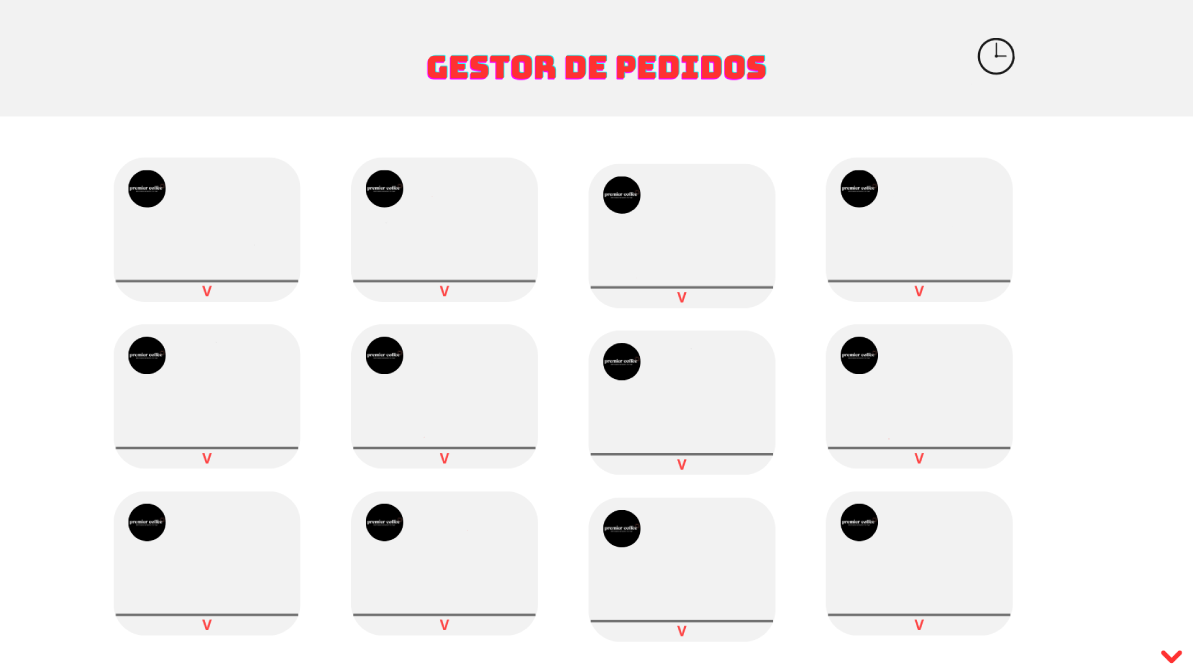
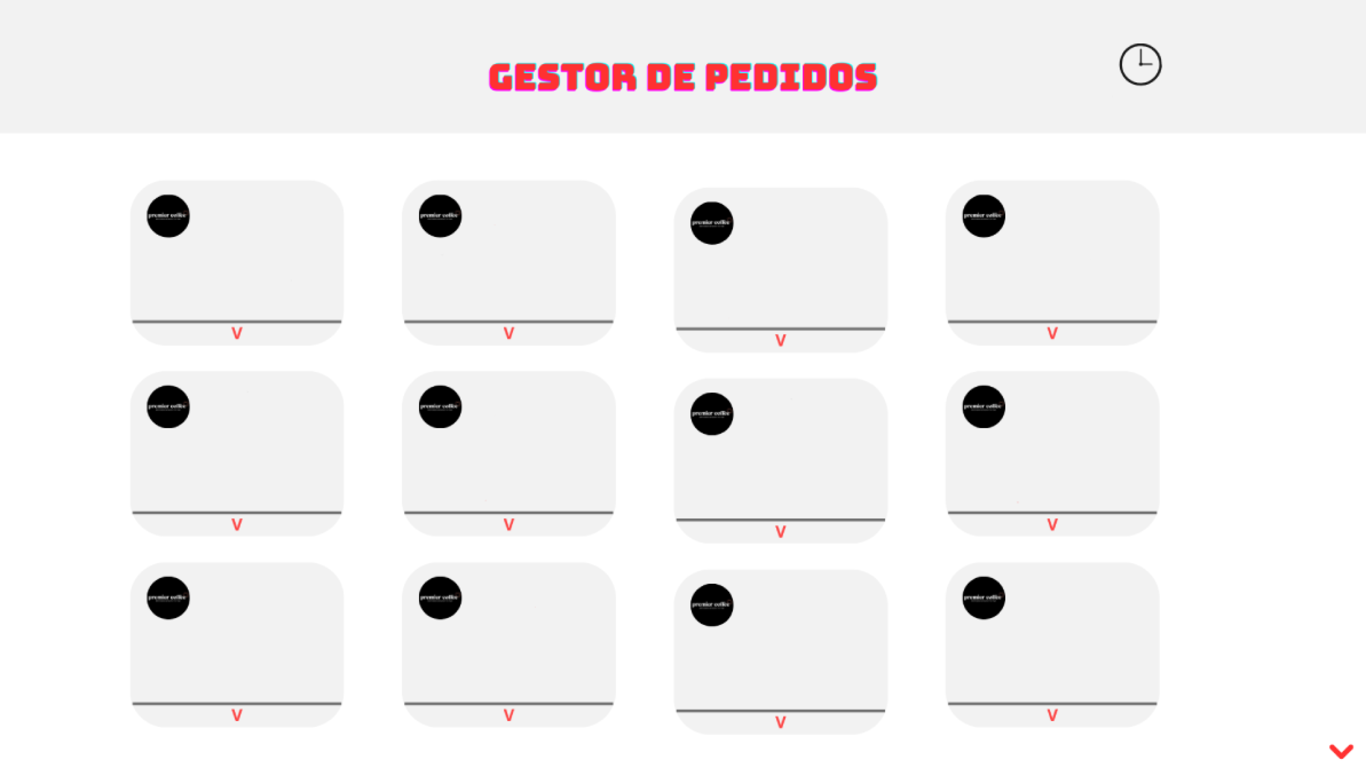
kfdçslkfçlsdkfslç

Changed region(s): [[0.3722, 0.0894, 0.6513, 0.1192]]

diff --git a/src/main/java/br/com/senai/gestaoDeCadastroFront/views/pedidos/ViewListagemDePedidos.java b/src/main/java/br/com/senai/gestaoDeCadastroFront/views/pedidos/ViewListagemDePedidos.java
@@ -4,19 +4,31 @@ import java.awt.Color;
 import java.awt.Font;
 
 import javax.swing.ImageIcon;
+import javax.swing.JButton;
 import javax.swing.JFrame;
 import javax.swing.JLabel;
 import javax.swing.JPanel;
 import javax.swing.SwingConstants;
 import javax.swing.border.EmptyBorder;
-import javax.swing.JButton;
 
+import org.springframework.stereotype.Component;
+
+import jakarta.annotation.PostConstruct;
+
+@Component
 public class ViewListagemDePedidos extends JFrame {
 
 	private static final long serialVersionUID = 1L;
 	private JPanel contentPane;
+	
+	
+	@PostConstruct
+	public void initialize() {
+		
+	}
 
 	public ViewListagemDePedidos() {
+		
 		setDefaultCloseOperation(JFrame.EXIT_ON_CLOSE);
 		setBounds(100, 100, 1172, 722);
 		contentPane = new JPanel();
@@ -870,11 +882,13 @@ public class ViewListagemDePedidos extends JFrame {
 		contentPane.add(btnNewButton_1_1_1_2);
 		
 		JLabel lblFundo = new JLabel("");
+		lblFundo.setIcon(new ImageIcon(ViewListagemDePedidos.class.getResource("/br/com/senai/gestaoDeCadastroFront/img/Tela de pedidos aceitos 1.png")));
 		lblFundo.setBorder(null);
 		lblFundo.setHorizontalAlignment(SwingConstants.LEFT);
 		lblFundo.setBounds(0, 0, 1156, 683);
 		lblFundo.setBackground(Color.WHITE);
-		lblFundo.setIcon(new ImageIcon(ViewPedidoAceito.class.getResource("/br/com/senai/gestaoDeCadastroFront/img/Tela de pedidos aceitos 1.png")));
 		contentPane.add(lblFundo);
+		
+		setLocationRelativeTo(null);
 	}
 }

diff --git a/src/main/java/br/com/senai/gestaoDeCadastroFront/views/pedidos/ViewGestorPedidos.java b/src/main/java/br/com/senai/gestaoDeCadastroFront/views/pedidos/ViewGestorPedidos.java
@@ -27,7 +27,7 @@ public class ViewGestorPedidos extends JFrame {
 	private JPanel contentPane;
 	
 	@PostConstruct
-	public void inicializar() {
+	public void initialize() {
 		
 	}
 	
@@ -38,7 +38,7 @@ public class ViewGestorPedidos extends JFrame {
 	public ViewGestorPedidos() {
 		setResizable(false);
 		setDefaultCloseOperation(JFrame.DISPOSE_ON_CLOSE);
-		setBounds(100, 100, 1176, 722);
+		setBounds(100, 100, 1366, 768);
 		contentPane = new JPanel();
 		contentPane.setBorder(new EmptyBorder(5, 5, 5, 5));
 
@@ -218,5 +218,7 @@ public class ViewGestorPedidos extends JFrame {
 		lblFundo.setIcon(new ImageIcon(ViewGestorPedidos.class.getResource("/br/com/senai/gestaoDeCadastroFront/img/Tela inicial após ter logado (cliente) (2).png")));
 		lblFundo.setBounds(0, 0, 1162, 690);
 		contentPane.add(lblFundo);
+		
+		setLocationRelativeTo(null);
 	}
 }

diff --git a/src/main/java/br/com/senai/gestaoDeCadastroFront/views/pedidos/ViewPedidoAceito.java b/src/main/java/br/com/senai/gestaoDeCadastroFront/views/pedidos/ViewPedidoAceito.java
@@ -17,11 +17,21 @@ import javax.swing.SwingConstants;
 import javax.swing.GroupLayout.Alignment;
 import javax.swing.border.EmptyBorder;
 
+import org.springframework.stereotype.Component;
+
+import jakarta.annotation.PostConstruct;
+
+@Component
 public class ViewPedidoAceito extends JFrame {
 
 	private static final long serialVersionUID = 1L;
 	private JPanel contentPane;
 
+	@PostConstruct
+	public void initialize() {
+		
+	}
+	
 	public ViewPedidoAceito() {
 
 		setResizable(false);
@@ -321,5 +331,6 @@ public class ViewPedidoAceito extends JFrame {
 		lblFundo.setIcon(new ImageIcon(ViewPedidoAceito.class.getResource("/br/com/senai/gestaoDeCadastroFront/img/Tela de pedidos aceitos.png")));
 		contentPane.add(lblFundo);
 		
+		setLocationRelativeTo(null);
 	}
 }
